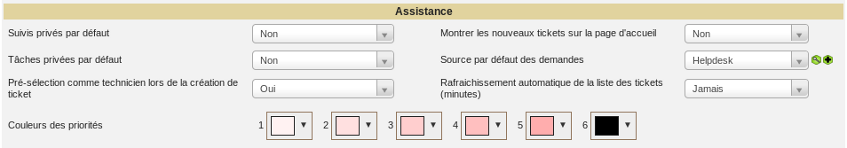
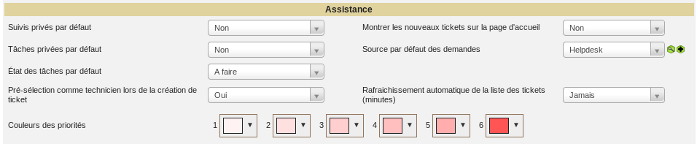
work for markdown

diff --git a/fr/08_Module_Configuration/06_Générale/03_Valeurs_par_défaut.md b/fr/08_Module_Configuration/06_Générale/03_Valeurs_par_défaut.md
@@ -1,0 +1,72 @@
+Valeurs par défaut
+==================
+
+Cet onglet permet de définir les préférences d'affichage appliquées par défaut à GLPI. Elles peuvent être modifiées par les utilisateurs dans leur session (voir [Gérer ses préférences](index.php?fr/02_Premiers_pas_avec_GLPI/03_Utiliser_GLPI/04_Gérer_ses_préférences.md).
+
+Personnalisation
+----------------
+![image](docs/image/personnalisation.png)
+
+- **Langue** : langue d'affichage de GLPI.
+
+- **Nombre de résultats par page** : nombre d'éléments affichés dans la liste des objets. La valeur indiquée ici ne peut dépasser la valeur maximale définie dans les options générales d'affichage.
+
+- **Limite par défaut du nombre de caractères dans les listes déroulantes** : nombre de caractères par liste.
+
+- **Afficher le nom complet pour le choix des intitulés arborescents** : affichage des éléments de la liste sous forme arborescente ou à plat.
+
+- **Montrer les ID GLPI** : ajoute l'ID de l'élément à la suite de son nom.
+
+- **Notifications pour mes changements** : recevoir les notifications pour les actions que l'utilisateur connecté à réalisées. Ce paramètre ne s'applique pas pour la création d'un ticket pour laquelle la notification est systématiquement envoyée (preuve de création).
+
+- **Police pour l'export PDF** : police utilisée lors de la génération des fichiers PDF afin de l'adapter au jeu de caractères utilisé. 
+
+- **Après la création, aller à l'élément créé** : après la création d'un élément, permet de paramétrer comment l'utilisateur est redirigé (vers l'élément créé ou vers le formulaire de création). Ce paramètre peut être très utile en cas de nombreuses saisies successives d'un même objet.
+
+- **Format des dates** : format d'affichage de toutes les dates.
+
+- **Format des nombres** : format d'affichage de tous les nombres.
+
+- **Ordre d'affichage du nom complet** : permet de choisir l'ordre n'affiches des nom et prénom d'un utilisateur
+
+- **Afficher les compteurs dans les onglet** : permet de visualiser directement depuis le nom de l'onglet s'il contient ou non des éléments.
+
+- **Délimiteur CSV** : délimiteur utilisé au moment des exports.
+
+- **Résultats à afficher sur la page d'accueil** : concerne le contenu des tableaux concernant les tickets, les problèmes et les changements. Si ce paramètre est mis à 0, seuls les titres de tableaux apparaitront mais vous pourrez accéder à leur contenu respectif en cliquant sur le nom du tableau (principe identique si le nombre défini est inférieur au nombre d'éléments).
+
+- **Garder les composants à la suppression définitive d'un élément** : si un élément ayant des composants est purgé de la corbeille, conservation ou non des composants liés.
+
+Assistance
+----------
+![image](docs/image/pref_assistance.png)
+
+Les paramètres sont applicables à tous les objets du menu ***Assistance***.
+
+- **Suivis privés par défaut** : pré-sélectionne le champ Privé d'un suivi.
+
+- **Tâches privées par défaut** : pré-sélectionne le champ Privé d'une tâche.
+
+- **Etat des tâches par défaut** : pré-sélection de l'état.
+
+- **Pré-sélection comme technicien lors de la création de ticket** : la personne connectée sera automatique assigné au ticket. Cette variable n'est paramétrable que si l'utilisateur à le droit d'être en charge d'un ticket.
+
+- **Couleurs des priorités** : utilisé dans l'interface depuis la liste des objets pour une meilleure visibilité .
+
+- **Montrer les nouveaux tickets sur la page d'accueil** : si vous avez également le droit de voir tous les tickets, un tableau listant tous les tickets au statut Nouveau s'affichera dans l'onglet *Vue globale* de l'accueil.
+
+- **Source par défaut des demandes** : valeur du champ dans un ticket.
+
+- **Rafraichissement automatique de la liste des tickets (minutes)** : ce paramètre peut être utilise pour un technicien travaillant continuellement depuis a liste des tickets.
+
+Progression liée à la date d'échéance
+-------------------------------------
+![image](docs/image/pref-duedate.png)
+
+Permet de définir les couleurs qui seront appliquées dans la barre de progression d'un objet. 
+Ces différents états dépendent des seuils paramétrés en pourcentage, en heures ou en jours.
+
+---------
+**Sujet parent :** [Gérer ses préférences](index.php?fr/02_Premiers_pas_avec_GLPI/03_Utiliser_GLPI/04_Gérer_ses_préférences.md)
+
+**Sujet parent :** [Configurer les paramètres centraux](index.php?fr/08_Module_Configuration/06_Générale/01_Configures_les_paramètres_centraux.md)

diff --git a/fr/02_Premiers_pas_avec_GLPI/03_Utiliser_GLPI/04_Gérer_ses_préférences.md b/fr/02_Premiers_pas_avec_GLPI/03_Utiliser_GLPI/04_Gérer_ses_préférences.md
@@ -24,36 +24,24 @@ Onglet Personnalisation
 ----------------------
 Cet onglet permet de modifier les préférences générales d'affichage appliqué à un utilisateur donné. Ces paramètres sont prioritaires sur ceux définis dans la configuration générale.
 
-![image](docs/image/pref-personnalisation.png)
-- **Langue** : langue d'affichage de l'utilisateur
-- **Nombre de résultats par page** : nombre d'éléments affichés dans la liste des objets
-- **Limite par défaut du nombre de caractères dans les listes déroulantes** : nombre de caractères par liste => A REVOIR NE SEMBLE PLUS FONCTIONNER
-- **Afficher le nom complet pour le choix des intitulés arborescents** : affichage des éléments de la liste sous forme arborescente ou non
-- **Montrer les ID GLPI** : ajoute l'ID de l'élément à la suite de son nom
-- **Notifications pour mes changements** : recevoir les notifications pour les actions que l'utilisateur à réalisées. Ce paramètre ne s'applique pas pour la création d'un ticket pour laquelle la notification est systématiquement envoyée (preuve de création).
-- **Police pour l'export PDF** : police utilisée lors de la génération des fichiers PDF afin de l'adapter au jeu de caractères utilisé 
-- **Après la création, aller à l'élément créé** : après la création d'un élément, permet de paramétrer comment l'utilisateur est redirigé (vers l'élément créé ou vers le formulaire de création). Ce paramètre peut être très utile en cas de nombreuses saisies successives d'un même objet.
-- **Format des dates** : format d'affichage de toutes les dates
-- **Format des nombres** : format d'affichage de tous les nombres
-- **Ordre d'affichage du nom complet** : permet de choisir l'ordre n'affiches des nom et prénom d'un utilisateur
-- **Afficher les compteurs dans les onglet** : permet de visualiser directement depuis le nom de l'onglet s'il contient ou non des éléments
-- **Délimiteur CSV** : délimiteur utilisé au moment des exports
-- **Résultats à afficher sur la page d'accueil** : concerne le contenu des tableaux concernant les tickets, les problèmes et les changements. Si ce paramètre est mis à 0, seuls les titres de tableaux apparaitront mais vous pourrez accéder à leur contenu respectif en cliquant sur le nom du tableau (principe identique si le nombre défini est inférieur au nombre d'éléments)
-- **Garder les composants à la suppression définitive d'un élément** : si un élément ayant des composants est purgé de la corbeille, conservation ou non des composants liés.
+Pour plus d'explications, voir [l'onglet personnalisation de la configuration générale](index.php?fr/08_Module_Configuration/06_Générale/03_Valeurs_par_défaut.md)
+
+
+![image](docs/image/personnalisation.png)
+
+***Remarque** : pour le Nombre de résultats par page, la valeur indiquée ici ne peut dépasser la valeur maximale définie dans les options générales d'affichage.*
+
+
 
 ![image](docs/image/pref-assistance.png)
-- **Suivis privés par défaut** : présélectionne le champ Privé d'un suivi. 
-- **Tâches privées par défaut** : présélectionne le champ Privé d'une tâche
-- **Pré-sélection comme technicien lors de la création de ticket** : la personne connectée sera automatique assigné au ticket. Cette variable n'est paramétrable que si l'utilisateur à le droit d'être en charge d'un ticket.
-- **Montrer les nouveaux tickets sur la page d'accueil** : si vous avez également le droit de voir tous les tickets, un tableau listant tous les tickets au statut Nouveau s'affichera dans l'onglet *Vue globale* de l'accueil
-- **Source par défaut des demandes** : valeur du champ dans un ticket
-- **Rafraichissement automatique de la liste des tickets (minutes)** : ce paramètre peut être utilise pour un technicien travaillant continuellement depuis a liste des tickets
+
 
 ![image](docs/image/pref-cle.png)
+
 La section **Clé d'accès distant** permet de régénérer la clé de sécurité utilisée pour accéder aux flux privés offerts par GLPI.
 Actuellement les flux ICAL et WEBCAL du planning sont protégés par cette clé de sécurité qui est intégrée à l'url.
 
-![image](docs/image/pref-duedatee.png)
+![image](docs/image/pref-duedate.png)
 
 Onglet Vue personnelle
 ----------------------

diff --git a/fr/08_Module_Configuration/06_Générale/01_Configurer_les_paramètres_centraux.md b/fr/08_Module_Configuration/06_Générale/01_Configurer_les_paramètres_centraux.md
@@ -1,17 +1,17 @@
 Configurer les paramètres centraux
 ==================================
 
-Les paramètres centraux se configurent depuis le menu Configuration \>
-Générale
+Les paramètres centraux permettent de configurer globalement GLPI. Certains de ces paramètres peuvent être modifiés par l'utilisateur dans sa session.
 
--   **[Onglet Configuration Générale](index.php?fr/08_Module_Configuration/06_Générale/02_Configuration_Générale.md)**
+Les différents onglets
+----------------------
+
+-   **[Onglet *Configuration Générale*](index.php?fr/08_Module_Configuration/06_Générale/02_Configuration_Générale.md)**
      Cet onglet permet de personnaliser l'apparence générale de l'application.
 
--   **[Personnaliser
-    l'interface](../glpi/config_common_personalize.html)**\
-     Les préférences d'affichage qui peuvent être définies avec des
-    valeurs par défaut et que les utilisateurs peuvent modifier pour
-    leur session sont regroupées dans l'onglet personnalisation.
+-   **[Onglet *Valeurs par défaut*](index.php?fr/08_Module_Configuration/06_Générale/03_Valeurs_par_défaut.md)**
+     Cet onglet regroupe les préférences d'affichage modifiable par un utilisateur dans sa session.
+
 -   **[Onglet Parc](../glpi/config_common_inventory.html)**\
      L'onglet parc permet de régler les paramètres généraux concernant
     la partie inventaire de l'application.
